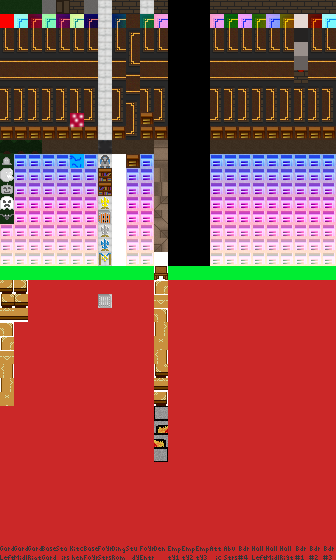
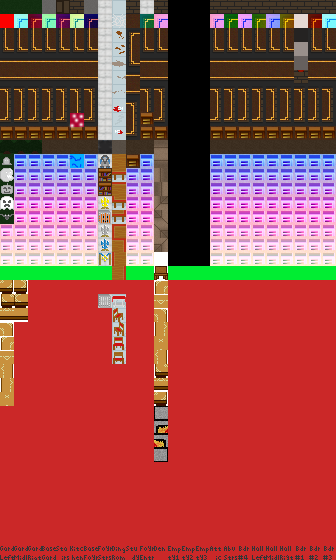
Added dining room (manually merged new tiles with the new Den ones and fireplace)

Changed region(s): [[0.3274, 0.0, 0.3869, 0.6679]]

diff --git a/js/World.js b/js/World.js
@@ -69,19 +69,10 @@ var levelFoyerStairs =
 10,10,10,0,10,10,10,10,10,10,10,10,10,10,10,10,10,10,17,0,17,10,10,10,10,10,10,10,11,10,10,10,10,11,0,0,0,0,13,12,13,12,13,0,0,0,10,10,10,10,0,0,0,0,0,0,0,0,0,0,0,0,10,10,10,16,0,0,0,0,12,12,12,13,13,0,0,0,14,10,0,0,0,0,0,0,0,0,0,0,0,0,0,0,0,0,10,16,0,0,21,0,0,0,0,0,15,0,0,0,14,10,10,10,0,0,0,0,0,18,0,0,0,0,0,0,10,10,10,10,0,0,0,0,0,21,0,15,18,21,0,0,10,10,10,0,0,0,0,0,0,0,0,0,0,0,0,0,0,10
 ];
 
-var levelDiningRoom =
-	[ // Dining table, China cabinet
-		 10, 10, 10, 10, 10, 10, 10, 0, 10, 10, 10, 10, 10, 10, 10, 10,
-		 10, 0, 0, 0, 0, 0, 0, 0, 0, 0, 0, 0, 0, 0, 0, 10,
-		 10, 0, 0, 0, 0, 0, 0, 0, 0, 0, 0, 0, 0, 0, 0, 10,
-		 10, 0, 0, 0, 0, 0, 0, 0, 0, 0, 0, 0, 0, 0, 0, 10,
-		 10, 0, 0, 0, 0, 0, 0, 0, 0, 0, 0, 0, 0, 0, 0, 10,
-		 0, 0, 0, 0, 0, 0, 0, 0, 0, 0, 0, 0, 0, 0, 0, 10,
-		 10, 0, 0, 0, 0, 0, 0, 0, 0, 0, 0, 0, 0, 0, 0, 10,
-		 10, 0, 0, 0, 0, 0, 0, 0, 0, 0, 0, 0, 0, 0, 0, 10,
-		 10, 0, 0, 0, 0, 0, 0, 0, 0, 0, 0, 0, 0, 0, 0, 10,
-		 10, 10, 10, 10, 10, 10, 10, 10, 10, 10, 10, 10, 10, 10, 10, 10,
-	];
+var levelDiningRoom = 
+[
+10,10,10,10,10,10,10,0,10,10,10,10,10,10,10,10,10,1,0,0,0,0,0,0,0,0,0,0,21,0,0,10,10,0,0,0,3,24,0,24,0,24,0,24,0,0,7,10,10,0,22,16,13,13,13,13,13,13,13,13,17,23,0,10,10,0,0,18,11,11,11,11,11,11,11,11,19,0,0,10,0,0,22,18,11,11,11,11,11,11,11,11,19,23,0,10,10,0,0,14,12,12,12,12,12,12,12,12,15,0,0,10,10,0,0,0,0,25,0,25,0,25,0,25,0,2,21,10,10,0,9,0,5,4,6,0,0,0,8,0,0,0,0,10,10,10,10,10,10,10,10,10,10,10,10,10,10,10,10,10
+];
 
 var levelStairs =
     [
